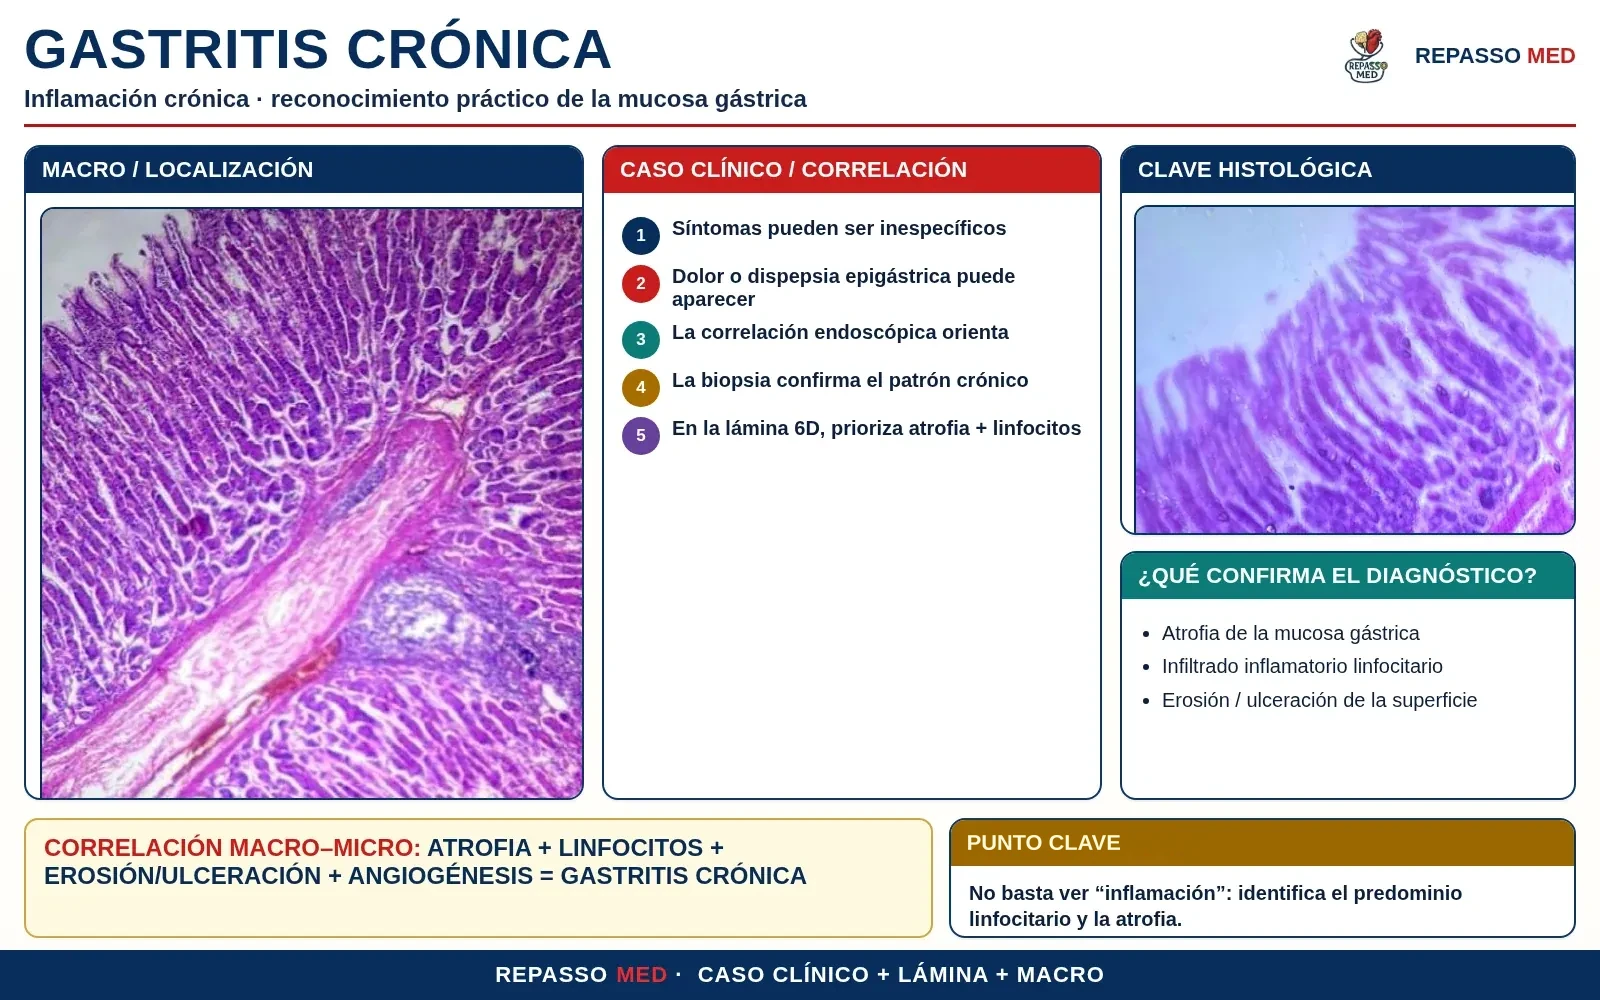
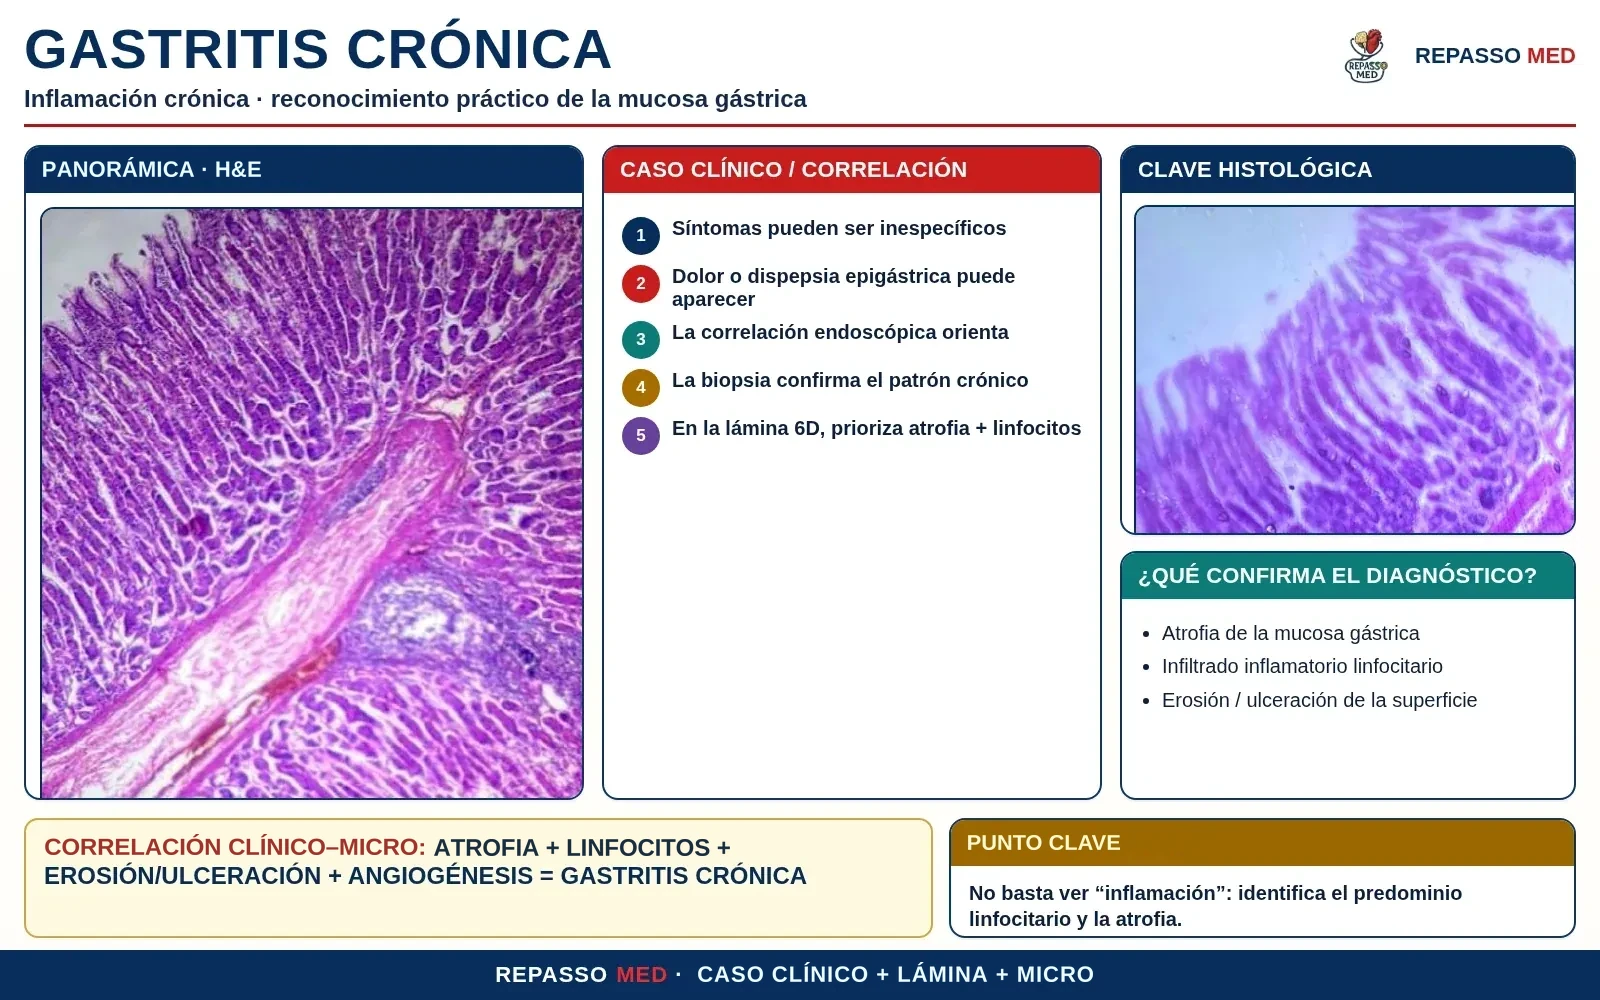
AP II Práctica: infográficos 03 e 14 sem rótulos que prometem o que a foto não mostra, legendas das figuras 03/07/14 fiéis, flashcard tabaco/álcool sem atribuir à cátedra
Claude-Session: https://claude.ai/code/session_01SyshZoF9qGQrLq3w6ribg8

Changed region(s): [[0.0312, 0.837, 0.4688, 0.868], [0.4375, 0.961, 0.6875, 0.992], [0.0312, 0.155, 0.1875, 0.186]]

diff --git a/Repasso-Med-Site--main/Atual - Copia/netlify/functions/materias-privadas/anatomia-patologica-ii-practica.html b/Repasso-Med-Site--main/Atual - Copia/netlify/functions/materias-privadas/anatomia-patologica-ii-practica.html
@@ -1332,8 +1332,8 @@
 </div>
 
 <figure class="rmc-fig">
-  <div class="rmc-zoom"><img class="rmc-photo" src="/assets/img/anatoprat2/03_adenoma_pleomorfo_diferenciales.webp" alt="Infográfico de diferenciales del adenoma pleomorfo: cómo identificar rápido en cuatro pasos, microscopía clave en hematoxilina eosina y tabla de diferencias importantes entre tumor de Warthin con epitelio oncocítico y estroma linfoide, carcinoma mucoepidermoide con células mucosas y epidermoides de patrón maligno, y adenoma pleomorfo con ductos, mioepitelio y estroma mixoide." loading="lazy" decoding="async"></div>
-  <figcaption><b>Cómo leer esta figura:</b> usá sólo la tabla de la derecha. Tres filas, una idea: cada tumor de parótida tiene <b>su propio estroma</b>. Mixoide es pleomorfo, linfoide es Warthin; sin estroma propio pero con atipia e invasión, mucoepidermoide.</figcaption>
+  <div class="rmc-zoom"><img class="rmc-photo" src="/assets/img/anatoprat2/03_adenoma_pleomorfo_diferenciales.webp" alt="Infográfico de diferenciales del adenoma pleomorfo: cómo identificar rápido en cuatro pasos, campo microscópico de la lámina en hematoxilina eosina (con tejido fibroso, vasos y tejido adiposo; no muestra juntos los tres componentes del tumor) y tabla de diferencias importantes entre tumor de Warthin con epitelio oncocítico y estroma linfoide, carcinoma mucoepidermoide con células mucosas y epidermoides de patrón maligno, y adenoma pleomorfo con ductos, mioepitelio y estroma mixoide." loading="lazy" decoding="async"></div>
+  <figcaption><b>Cómo leer esta figura:</b> usá sólo la tabla de la derecha. Tres filas, una idea: cada tumor de parótida tiene <b>su propio estroma</b>. Mixoide es pleomorfo, linfoide es Warthin; sin estroma propio pero con atipia e invasión, mucoepidermoide. La foto central es un campo de la lámina con tejido fibroso, vasos y grasa: <b>no</b> muestra los ductos, el mioepitelio y el estroma mixoide a la vez; para verlos, mirá las micrografías de esta sección.</figcaption>
 </figure>
 
 <div class="rmc-scroll">
@@ -1928,7 +1928,7 @@
 
 <figure class="rmc-fig">
   <div class="rmc-zoom"><img class="rmc-photo" src="/assets/img/anatoprat2/07_adenocarcinoma_esofago_diferenciales.webp" alt="Infográfico de reconocimiento del adenocarcinoma de esófago: cinco criterios histológicos numerados (formación glandular, atipia marcada, nucleolos prominentes, necrosis, estroma desmoplásico) con zoom de glándulas atípicas e invasión, esquema de localización en tercio distal/unión gastroesofágica, clínica típica, patrón clave, los datos que hay que recordar, y recuadro «no confundir con» (esófago de Barrett sin invasión, carcinoma escamoso de esófago, esofagitis)." loading="lazy" decoding="async"></div>
-  <figcaption><b>Cómo leer esta figura:</b> de los cinco criterios de la izquierda, los tres que deciden son glándulas malignas + atipia + invasión. El recuadro «no confundir con» es el mismo diferencial de esta sección, en una sola mirada: Barrett (sin invasión), escamoso (sin glándulas) y esofagitis (sin neoplasia).</figcaption>
+  <figcaption><b>Cómo leer esta figura:</b> de los cinco criterios de la izquierda, los tres que deciden son glándulas malignas + atipia + invasión. El recuadro «no confundir con» es el mismo diferencial de esta sección, en una sola mirada: Barrett (sin invasión), escamoso (sin glándulas) y esofagitis (sin neoplasia). El resto de la figura repite la guía de reconocimiento de la sección anterior; aquí lo nuevo es ese recuadro.</figcaption>
 </figure>
 
 <div class="rmc-scroll">
@@ -2906,7 +2906,7 @@
 <div class="flashcard"><div class="fc-front"><b>Grado del tumor</b></div><div class="fc-back">Se juzga por la <b>queratinización</b>. Pocas perlas + atipia moderada = <b>moderadamente diferenciado.</b></div></div>
 <div class="flashcard"><div class="fc-front"><b>Áreas de hemorragia</b></div><div class="fc-back">Eritrocitos extravasados. Correlato de la <b>úlcera que sangra</b> → hematemesis y anemia.</div></div>
 <div class="flashcard"><div class="fc-front"><b>Caso oficial · el dato que decide</b></div><div class="fc-back">«<b>No tiene antecedentes de reflujo</b>»: sin ERGE no hay Barrett, y sin Barrett no hay adenocarcinoma.</div></div>
-<div class="flashcard"><div class="fc-front"><b>Caso de la cátedra · el factor más relevante</b></div><div class="fc-back"><b>Tabaquismo crónico</b> (1 cajetilla/día × 50 años), el único cuantificado. El alcohol es «habitual» y actúa en sinergia.</div></div>
+<div class="flashcard"><div class="fc-front"><b>Caso del esófago epidermoide · ¿el factor más relevante?</b></div><div class="fc-back"><b>Tabaquismo crónico</b> (1 cajetilla/día × 50 años), el único cuantificado. El alcohol es «habitual» y actúa en sinergia.</div></div>
 <div class="flashcard"><div class="fc-front"><b>Epidermoide vs. adeno · patrón</b></div><div class="fc-back"><b>Nidos + queratina</b> / <b>glándulas + moco.</b> Es el criterio que más pesa.</div></div>
 <div class="flashcard"><div class="fc-front"><b>Epidermoide vs. adeno · terreno y lugar</b></div><div class="fc-back">Epitelio plano y <b>tercio medio</b> / Barrett y <b>tercio inferior.</b></div></div>
 <div class="flashcard"><div class="fc-front"><b>Acalasia · doble papel</b></div><div class="fc-back"><b>Factor de riesgo</b> del epidermoide y <b>distractor</b> de la disfagia (sólidos y líquidos desde el inicio, sin masa).</div></div>
@@ -3175,8 +3175,8 @@
 </div>
 
 <figure class="rmc-fig">
-  <div class="rmc-zoom"><img class="rmc-photo" src="/assets/img/anatoprat2/14_gastritis_cronica_caso_clinico.webp" alt="Infográfico de correlación clínica de la gastritis crónica: microfotografía de la mucosa gástrica, cinco puntos de correlación —síntomas inespecíficos, dolor o dispepsia epigástrica, correlación endoscópica orientadora, biopsia que confirma el patrón crónico y prioridad de atrofia más linfocitos en la lámina— y clave histológica con atrofia de la mucosa, infiltrado linfocitario y erosión de la superficie." loading="lazy" decoding="async"></div>
-  <figcaption><b>Cómo leer esta figura:</b> la columna central dice algo incómodo y verdadero: los síntomas de la gastritis crónica <b>no sirven para diagnosticarla</b>. La endoscopia <b>orienta</b>, la <b>biopsia confirma</b>. Priorizá <b>atrofia + linfocitos</b>.</figcaption>
+  <div class="rmc-zoom"><img class="rmc-photo" src="/assets/img/anatoprat2/14_gastritis_cronica_caso_clinico.webp" alt="Infográfico de correlación clínica de la gastritis crónica: microfotografía panorámica de la mucosa gástrica (no es una foto macroscópica), cinco puntos de correlación —síntomas inespecíficos, dolor o dispepsia epigástrica, correlación endoscópica orientadora, biopsia que confirma el patrón crónico y prioridad de atrofia más linfocitos en la lámina— y clave histológica con atrofia de la mucosa, infiltrado linfocitario y erosión de la superficie." loading="lazy" decoding="async"></div>
+  <figcaption><b>Cómo leer esta figura:</b> la columna central dice algo incómodo y verdadero: los síntomas de la gastritis crónica <b>no sirven para diagnosticarla</b>. La endoscopia <b>orienta</b>, la <b>biopsia confirma</b>. Priorizá <b>atrofia + linfocitos</b>. Las dos fotos de la figura son microscopía (panorámica de la mucosa y un campo de detalle); no hay imagen macroscópica.</figcaption>
 </figure>
 
 <div class="rmc-scroll">
@@ -5996,7 +5996,7 @@
 <div class="flashcard"><div class="fc-front"><b>Grado del tumor</b></div><div class="fc-back">Se juzga por la <b>queratinización</b>. Pocas perlas + atipia moderada = <b>moderadamente diferenciado.</b></div></div>
 <div class="flashcard"><div class="fc-front"><b>Áreas de hemorragia</b></div><div class="fc-back">Eritrocitos extravasados. Correlato de la <b>úlcera que sangra</b> → hematemesis y anemia.</div></div>
 <div class="flashcard"><div class="fc-front"><b>Caso oficial · el dato que decide</b></div><div class="fc-back">«<b>No tiene antecedentes de reflujo</b>»: sin ERGE no hay Barrett, y sin Barrett no hay adenocarcinoma.</div></div>
-<div class="flashcard"><div class="fc-front"><b>Caso de la cátedra · el factor más relevante</b></div><div class="fc-back"><b>Tabaquismo crónico</b> (1 cajetilla/día × 50 años), el único cuantificado. El alcohol es «habitual» y actúa en sinergia.</div></div>
+<div class="flashcard"><div class="fc-front"><b>Caso del esófago epidermoide · ¿el factor más relevante?</b></div><div class="fc-back"><b>Tabaquismo crónico</b> (1 cajetilla/día × 50 años), el único cuantificado. El alcohol es «habitual» y actúa en sinergia.</div></div>
 <div class="flashcard"><div class="fc-front"><b>Epidermoide vs. adeno · patrón</b></div><div class="fc-back"><b>Nidos + queratina</b> / <b>glándulas + moco.</b> Es el criterio que más pesa.</div></div>
 <div class="flashcard"><div class="fc-front"><b>Epidermoide vs. adeno · terreno y lugar</b></div><div class="fc-back">Epitelio plano y <b>tercio medio</b> / Barrett y <b>tercio inferior.</b></div></div>
 <div class="flashcard"><div class="fc-front"><b>Acalasia · doble papel</b></div><div class="fc-back"><b>Factor de riesgo</b> del epidermoide y <b>distractor</b> de la disfagia (sólidos y líquidos desde el inicio, sin masa).</div></div>
@@ -6161,7 +6161,7 @@
 <div class="flashcard"><div class="fc-front"><b>Grado del tumor</b></div><div class="fc-back">Se juzga por la <b>queratinización</b>. Pocas perlas + atipia moderada = <b>moderadamente diferenciado.</b></div></div>
 <div class="flashcard"><div class="fc-front"><b>Áreas de hemorragia</b></div><div class="fc-back">Eritrocitos extravasados. Correlato de la <b>úlcera que sangra</b> → hematemesis y anemia.</div></div>
 <div class="flashcard"><div class="fc-front"><b>Caso oficial · el dato que decide</b></div><div class="fc-back">«<b>No tiene antecedentes de reflujo</b>»: sin ERGE no hay Barrett, y sin Barrett no hay adenocarcinoma.</div></div>
-<div class="flashcard"><div class="fc-front"><b>Caso de la cátedra · el factor más relevante</b></div><div class="fc-back"><b>Tabaquismo crónico</b> (1 cajetilla/día × 50 años), el único cuantificado. El alcohol es «habitual» y actúa en sinergia.</div></div>
+<div class="flashcard"><div class="fc-front"><b>Caso del esófago epidermoide · ¿el factor más relevante?</b></div><div class="fc-back"><b>Tabaquismo crónico</b> (1 cajetilla/día × 50 años), el único cuantificado. El alcohol es «habitual» y actúa en sinergia.</div></div>
 <div class="flashcard"><div class="fc-front"><b>Epidermoide vs. adeno · patrón</b></div><div class="fc-back"><b>Nidos + queratina</b> / <b>glándulas + moco.</b> Es el criterio que más pesa.</div></div>
 <div class="flashcard"><div class="fc-front"><b>Epidermoide vs. adeno · terreno y lugar</b></div><div class="fc-back">Epitelio plano y <b>tercio medio</b> / Barrett y <b>tercio inferior.</b></div></div>
 <div class="flashcard"><div class="fc-front"><b>Acalasia · doble papel</b></div><div class="fc-back"><b>Factor de riesgo</b> del epidermoide y <b>distractor</b> de la disfagia (sólidos y líquidos desde el inicio, sin masa).</div></div>
